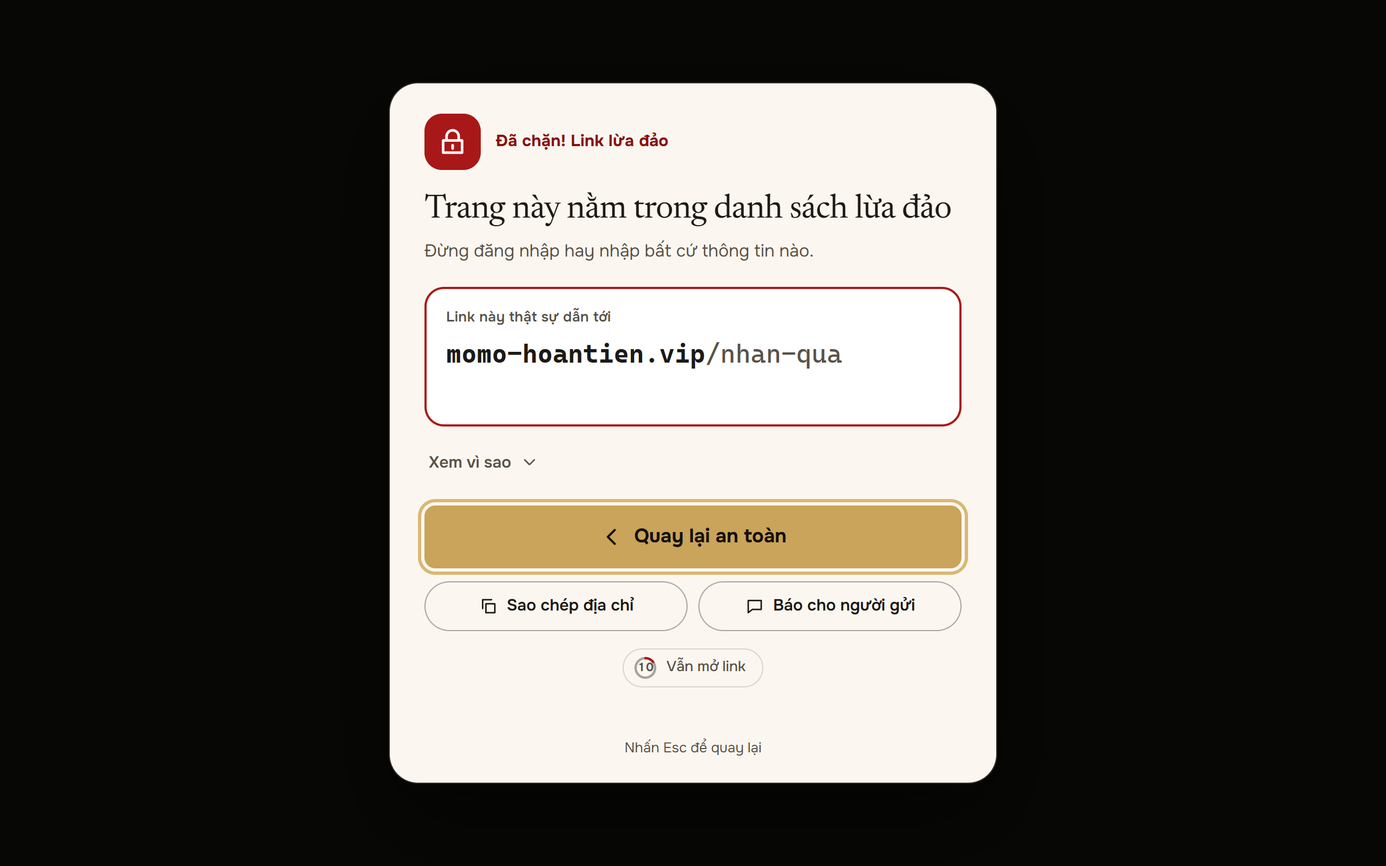
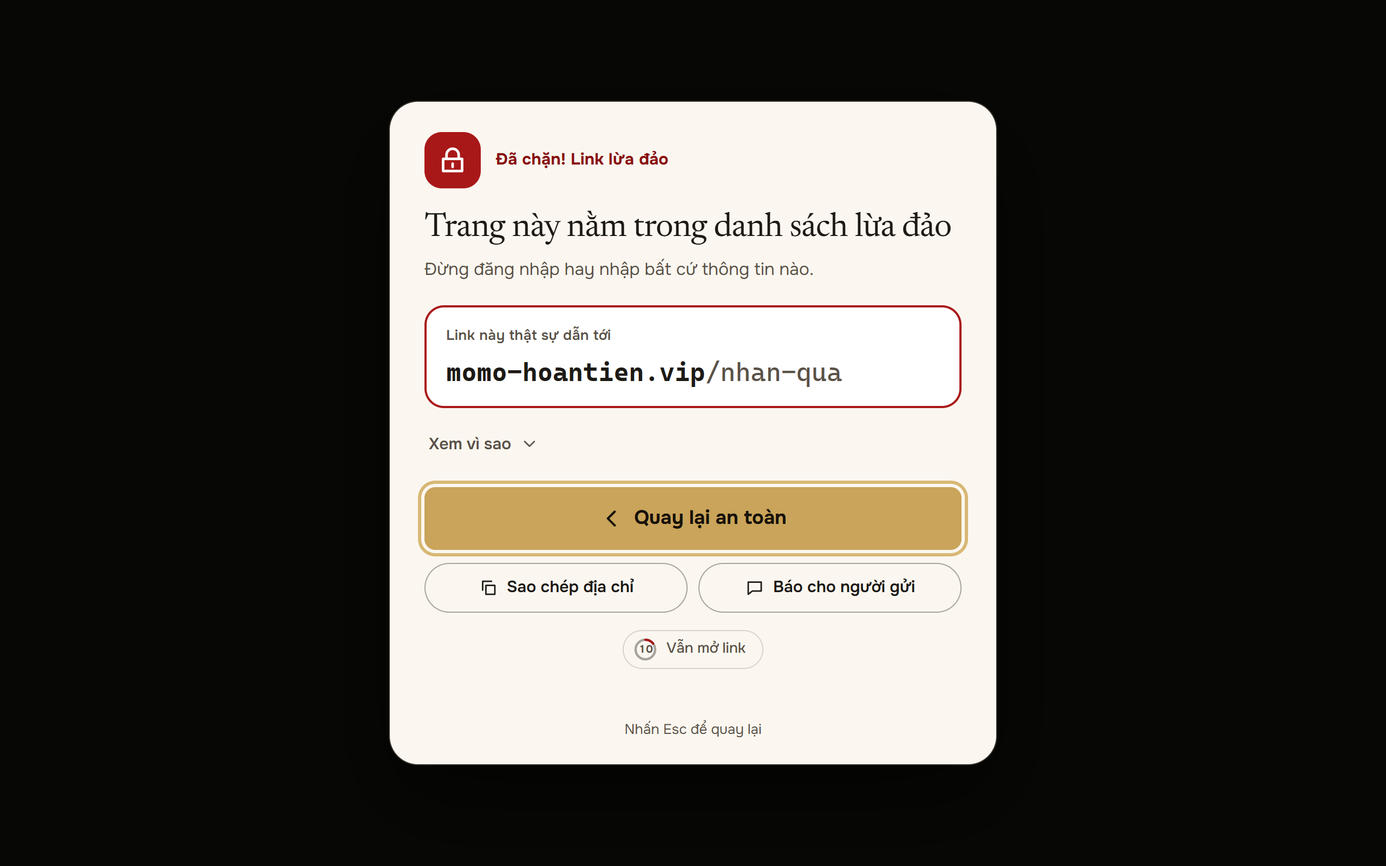
Tài liệu thiết kế giao diện, ảnh trước/sau, test tương phản WCAG, chỉnh vòng đếm

Changed region(s): [[0.2812, 0.4688, 0.7188, 0.7812], [0.2812, 0.0938, 0.7188, 0.4375], [0.2812, 0.8125, 0.7188, 0.9062]]

diff --git a/extension/src/ui/shield-css.js b/extension/src/ui/shield-css.js
@@ -1,2 +1,2 @@
 // Sinh bởi tools/sync_extension_data.py từ chotto/web/shield.css. Đừng sửa tay.
-globalThis.CHOTTO_SHIELD_CSS = "/* CHOTTO – màn hình cảnh báo \"Khoan đã!\" (hiển thị lũy tiến). MỘT nguồn cho cả Desktop (chotto/web/friction.html) và\n   tiện ích trình duyệt (tools/sync_extension_data.py nhúng file này vào extension/src/ui/shield-css.js).\n   Cấu trúc DOM do shield.js dựng. Sáng/tối theo hệ thống; đặt data-theme=\"dark\" | \"light\" trên .sh để ép một chế độ. */\n\n.sh {\n  /* tối (mặc định) */\n  --bg: #0c0a08; --surface: #161310; --surface2: #1f1b16; --ink: #f4efe7; --muted: #b3aa9d; --line: rgba(244, 239, 231, .14);\n  --line-strong: rgba(244, 239, 231, .3);\n  --accent: #c9a45a; --accent-hi: #d8b874; --accent-ink: #17110a; --ok: #7fc8a0;\n  --warn: #e0a84a; --warn-ink: #f2c986; --warn-chip: rgba(224, 168, 74, .16); --warn-solid: #e0a84a; --warn-on: #1c1204;\n  --high: #e5484d; --high-ink: #ffa598; --high-chip: rgba(229, 72, 77, .18); --high-solid: #e5484d; --high-on: #1d0605;\n  --blocked: #d93636; --blocked-ink: #ffb4a8; --blocked-chip: rgba(217, 54, 54, .24); --blocked-solid: #d93636; --blocked-on: #ffffff;\n  --serif: \"Newsreader\", \"Iowan Old Style\", \"Palatino Linotype\", Georgia, \"Times New Roman\", serif;\n  --sans: \"Onest\", \"Segoe UI\", system-ui, -apple-system, Roboto, \"Helvetica Neue\", Arial, sans-serif;\n  --mono: ui-monospace, \"Cascadia Mono\", \"SF Mono\", Consolas, \"Liberation Mono\", Menlo, monospace;\n  --ease: cubic-bezier(.2, .7, .2, 1);\n  color-scheme: dark;\n}\n@media (prefers-color-scheme: light) {\n  .sh:not([data-theme=\"dark\"]) {\n    --bg: #fbf7f0; --surface: #ffffff; --surface2: #f2ece1; --ink: #1d1a16; --muted: #5a5248; --line: rgba(29, 26, 22, .16);\n    --line-strong: rgba(29, 26, 22, .38); --accent-hi: #d8b874; --ok: #1f7a4d;\n    --warn: #b36b00; --warn-ink: #7a4800; --warn-chip: #ffefd0; --warn-solid: #e0a84a; --warn-on: #1c1204;\n    --high: #c62828; --high-ink: #9c1414; --high-chip: #fde8e6; --high-solid: #c62828; --high-on: #ffffff;\n    --blocked: #a91818; --blocked-ink: #8a0f0f; --blocked-chip: #fbd9d5; --blocked-solid: #a91818; --blocked-on: #ffffff;\n    color-scheme: light;\n  }\n}\n.sh[data-theme=\"light\"] {\n  --bg: #fbf7f0; --surface: #ffffff; --surface2: #f2ece1; --ink: #1d1a16; --muted: #5a5248; --line: rgba(29, 26, 22, .16);\n  --line-strong: rgba(29, 26, 22, .38); --accent-hi: #d8b874; --ok: #1f7a4d;\n  --warn: #b36b00; --warn-ink: #7a4800; --warn-chip: #ffefd0; --warn-solid: #e0a84a; --warn-on: #1c1204;\n  --high: #c62828; --high-ink: #9c1414; --high-chip: #fde8e6; --high-solid: #c62828; --high-on: #ffffff;\n  --blocked: #a91818; --blocked-ink: #8a0f0f; --blocked-chip: #fbd9d5; --blocked-solid: #a91818; --blocked-on: #ffffff;\n  color-scheme: light;\n}\n.sh[data-level=\"WARN\"] { --tone: var(--warn); --tone-ink: var(--warn-ink); --tone-chip: var(--warn-chip); --tile: var(--warn-chip); --tile-ink: var(--warn-ink); }\n.sh[data-level=\"HIGH\"] { --tone: var(--high); --tone-ink: var(--high-ink); --tone-chip: var(--high-chip); --tile: var(--high-chip); --tile-ink: var(--high-ink); }\n.sh[data-level=\"BLOCKED\"] { --tone: var(--blocked); --tone-ink: var(--blocked-ink); --tone-chip: var(--blocked-chip); --tile: var(--blocked-solid); --tile-ink: var(--blocked-on); }\n\n.sh, .sh * { box-sizing: border-box; }\n.sh { background: var(--bg); color: var(--ink); font: 16px/1.55 var(--sans); -webkit-font-smoothing: antialiased; padding: 28px 32px 22px; }\n.sh :where(button) { font: inherit; color: inherit; border: 0; background: none; cursor: pointer; }\n.sh :focus-visible { outline: 3px solid var(--accent-hi); outline-offset: 3px; border-radius: 10px; }\n.sh :where(svg) { display: block; flex: none; fill: none; stroke: currentColor; stroke-width: 1.8; stroke-linecap: round; stroke-linejoin: round; }\n\n/* ---- (a) kết luận ---- */\n.sh-head { display: flex; align-items: center; gap: 14px; }\n.sh-tile { width: 52px; height: 52px; border-radius: 16px; display: grid; place-items: center; background: var(--tile); color: var(--tile-ink); transition: background .5s var(--ease), color .5s var(--ease); }\n.sh-tile svg { width: 30px; height: 30px; stroke-width: 1.9; }\n.sh-chip { font-size: 15px; font-weight: 700; letter-spacing: .01em; color: var(--tone-ink); transition: color .5s var(--ease); }\n.sh-headline { margin: 18px 0 0; font: 400 31px/1.2 var(--serif); letter-spacing: -.015em; text-wrap: balance; }\n.sh-sub { margin: 8px 0 0; font-size: 16px; color: var(--muted); }\n.sh-headline[data-reserve] { min-height: 2.4em; }\n.sh-flash { animation: sh-flash .55s var(--ease); }\n\n/* ---- (b) tên miền thật ---- */\n.sh-domain { margin-top: 20px; padding: 18px 20px 16px; border-radius: 18px; background: var(--surface); box-shadow: inset 0 0 0 1px var(--line); transition: box-shadow .5s var(--ease); }\n.sh[data-level=\"BLOCKED\"] .sh-domain { box-shadow: inset 0 0 0 2px var(--blocked); }\n.sh[data-level=\"HIGH\"] .sh-domain { box-shadow: inset 0 0 0 1.5px color-mix(in srgb, var(--high) 55%, transparent); }\n.sh-cap { font-size: 13px; font-weight: 600; letter-spacing: .02em; color: var(--muted); }\n.sh-url { margin-top: 8px; font: 500 24px/1.35 var(--mono); overflow-wrap: anywhere; word-break: break-word; user-select: text; }\n.sh-url .u-user, .sh-url .u-prefix, .sh-url .u-rest { color: var(--muted); font-weight: 400; }\n.sh-url .u-user, .sh-url .u-prefix[data-decoy] { text-decoration: line-through; text-decoration-thickness: 2px; text-decoration-color: var(--high); }\n.sh-url .u-reg { color: var(--ink); font-weight: 800; }\n.sh-url .odd { font-style: normal; color: var(--tone-ink); text-decoration: underline wavy var(--tone); text-decoration-thickness: 2px; text-underline-offset: 6px; }\n.sh-url mark { background: var(--tone-chip); color: var(--tone-ink); border-radius: 6px; padding: 0 3px; margin: 0 -1px; box-shadow: 0 2px 0 var(--tone); }\n.sh-puny { margin-top: 4px; font: 400 13px/1.4 var(--mono); color: var(--muted); overflow-wrap: anywhere; user-select: text; }\n.sh-status:not(:empty), .sh-status[data-reserve] { margin-top: 12px; min-height: 22px; }\n.sh-status { display: flex; align-items: flex-start; gap: 10px; font-size: 14px; color: var(--muted); }\n.sh-official { color: var(--ink); display: inline-flex; align-items: center; gap: 10px; }\n.sh-official svg { width: 18px; height: 18px; color: var(--ok); stroke-width: 2.4; }\n.sh-official b { font-weight: 700; font-family: var(--mono); font-size: 13.5px; }\n.sh-skel { margin: 4px 2px 0 1px; width: 14px; height: 14px; border-radius: 50%; background: var(--muted); animation: sh-pulse 1.1s ease-in-out infinite; }\n.sh-status[data-busy] span { background: linear-gradient(90deg, var(--muted) 0 35%, var(--ink) 50%, var(--muted) 65% 100%) 0 0 / 250% 100%;\n  -webkit-background-clip: text; background-clip: text; color: transparent; animation: sh-shimmer 1.6s linear infinite; }\n\n/* ---- Xem vì sao (thu gọn) ---- */\n.sh-whybtn { margin-top: 14px; display: inline-flex; align-items: center; gap: 8px; padding: 8px 4px; font-size: 15px; font-weight: 600; color: var(--muted); border-radius: 10px; }\n.sh-whybtn:hover { color: var(--ink); }\n.sh-whybtn svg { width: 18px; height: 18px; transition: transform .3s var(--ease); }\n.sh-whybtn[aria-expanded=\"true\"] svg { transform: rotate(180deg); }\n.sh-whybody { display: grid; grid-template-rows: 0fr; visibility: hidden; transition: grid-template-rows .35s var(--ease), visibility 0s .35s; }\n.sh-whybody[data-open] { grid-template-rows: 1fr; visibility: visible; transition: grid-template-rows .35s var(--ease), visibility 0s; }\n.sh-whybody > ul { min-height: 0; overflow: hidden; margin: 0; padding: 0; list-style: none; display: grid; gap: 12px; }\n.sh-whybody li { display: grid; grid-template-columns: 22px 1fr; gap: 12px; font-size: 15px; line-height: 1.45; }\n.sh-whybody li:first-child { margin-top: 6px; }\n.sh-whybody li svg { width: 20px; height: 20px; margin-top: 1px; color: var(--tone-ink); }\n\n/* ---- (c) hành động ---- */\n.sh-actions { margin-top: 20px; display: grid; gap: 12px; }\n.sh-back { width: 100%; height: 58px; border-radius: 999px; font-size: 18px; font-weight: 700; background: var(--accent); color: var(--accent-ink);\n  display: inline-flex; align-items: center; justify-content: center; gap: 10px; transition: background .2s, transform .15s var(--ease); }\n.sh-back svg { width: 22px; height: 22px; stroke-width: 2.2; }\n.sh-back:hover { background: var(--accent-hi); transform: translateY(-1px); }\n.sh-back:active { transform: translateY(1px) scale(.99); }\n.sh-more { display: grid; grid-template-columns: 1fr 1fr; gap: 10px; }\n.sh-ghost { height: 46px; border-radius: 999px; font-size: 15px; font-weight: 600; display: inline-flex; align-items: center; justify-content: center; gap: 8px;\n  box-shadow: inset 0 0 0 1px var(--line-strong); transition: box-shadow .2s, background .2s; }\n.sh-ghost svg { width: 18px; height: 18px; }\n.sh-ghost:hover { background: var(--surface2); box-shadow: inset 0 0 0 1px var(--ink); }\n.sh-proceed { justify-self: center; margin-top: 4px; height: 36px; padding: 0 16px 0 10px; border-radius: 999px; font-size: 13.5px; font-weight: 500; color: var(--muted);\n  display: inline-flex; align-items: center; gap: 8px; box-shadow: inset 0 0 0 1px var(--line); transition: color .2s, box-shadow .2s; }\n.sh-proceed[aria-disabled=\"true\"] { cursor: not-allowed; }\n.sh-proceed[aria-disabled=\"false\"] { color: var(--ink); }\n.sh-proceed[aria-disabled=\"false\"]:hover { box-shadow: inset 0 0 0 1px var(--ink); }\n.sh-ring { position: relative; width: 22px; height: 22px; display: grid; place-items: center; font-size: 11px; font-weight: 700; font-variant-numeric: tabular-nums; }\n.sh-ring svg { position: absolute; inset: 0; width: 22px; height: 22px; transform: rotate(-90deg); stroke-width: 2.2; }\n.sh-ring .bg { stroke: var(--line-strong); }\n.sh-ring .fg { stroke: var(--tone); }\n.sh-proceed[aria-disabled=\"false\"] .sh-ring { display: none; }\n.sh-proceed[aria-disabled=\"false\"] { padding-left: 16px; }\n.sh-note { min-height: 20px; margin: 2px 0 0; text-align: center; font-size: 13.5px; color: var(--muted); }\n.sh-hint { margin: 0; text-align: center; font-size: 13px; color: var(--muted); }\n\n@keyframes sh-flash { from { opacity: .15; transform: translateY(4px); } }\n@keyframes sh-pulse { 50% { opacity: .3; } }\n@keyframes sh-shimmer { to { background-position: -150% 0; } }\n@media (prefers-reduced-motion: reduce) { .sh *, .sh *::before, .sh *::after { animation: none !important; transition: none !important; } }\n@media (max-width: 520px) {\n  .sh { padding: 22px 18px 18px; }\n  .sh-headline { font-size: 26px; }\n  .sh-url { font-size: 20px; }\n  .sh-more { grid-template-columns: 1fr; }\n}\n@media (max-height: 640px) {\n  .sh { padding-top: 18px; }\n  .sh-headline { margin-top: 12px; font-size: 26px; }\n  .sh-domain { margin-top: 14px; }\n}\n";
+globalThis.CHOTTO_SHIELD_CSS = "/* CHOTTO – màn hình cảnh báo \"Khoan đã!\" (hiển thị lũy tiến). MỘT nguồn cho cả Desktop (chotto/web/friction.html) và\n   tiện ích trình duyệt (tools/sync_extension_data.py nhúng file này vào extension/src/ui/shield-css.js).\n   Cấu trúc DOM do shield.js dựng. Sáng/tối theo hệ thống; đặt data-theme=\"dark\" | \"light\" trên .sh để ép một chế độ. */\n\n.sh {\n  /* tối (mặc định) */\n  --bg: #0c0a08; --surface: #161310; --surface2: #1f1b16; --ink: #f4efe7; --muted: #b3aa9d; --line: rgba(244, 239, 231, .14);\n  --line-strong: rgba(244, 239, 231, .3);\n  --accent: #c9a45a; --accent-hi: #d8b874; --accent-ink: #17110a; --ok: #7fc8a0;\n  --warn: #e0a84a; --warn-ink: #f2c986; --warn-chip: rgba(224, 168, 74, .16); --warn-solid: #e0a84a; --warn-on: #1c1204;\n  --high: #e5484d; --high-ink: #ffa598; --high-chip: rgba(229, 72, 77, .18); --high-solid: #e5484d; --high-on: #1d0605;\n  --blocked: #d93636; --blocked-ink: #ffb4a8; --blocked-chip: rgba(217, 54, 54, .24); --blocked-solid: #d93636; --blocked-on: #ffffff;\n  --serif: \"Newsreader\", \"Iowan Old Style\", \"Palatino Linotype\", Georgia, \"Times New Roman\", serif;\n  --sans: \"Onest\", \"Segoe UI\", system-ui, -apple-system, Roboto, \"Helvetica Neue\", Arial, sans-serif;\n  --mono: ui-monospace, \"Cascadia Mono\", \"SF Mono\", Consolas, \"Liberation Mono\", Menlo, monospace;\n  --ease: cubic-bezier(.2, .7, .2, 1);\n  color-scheme: dark;\n}\n@media (prefers-color-scheme: light) {\n  .sh:not([data-theme=\"dark\"]) {\n    --bg: #fbf7f0; --surface: #ffffff; --surface2: #f2ece1; --ink: #1d1a16; --muted: #5a5248; --line: rgba(29, 26, 22, .16);\n    --line-strong: rgba(29, 26, 22, .38); --accent-hi: #d8b874; --ok: #1f7a4d;\n    --warn: #b36b00; --warn-ink: #7a4800; --warn-chip: #ffefd0; --warn-solid: #e0a84a; --warn-on: #1c1204;\n    --high: #c62828; --high-ink: #9c1414; --high-chip: #fde8e6; --high-solid: #c62828; --high-on: #ffffff;\n    --blocked: #a91818; --blocked-ink: #8a0f0f; --blocked-chip: #fbd9d5; --blocked-solid: #a91818; --blocked-on: #ffffff;\n    color-scheme: light;\n  }\n}\n.sh[data-theme=\"light\"] {\n  --bg: #fbf7f0; --surface: #ffffff; --surface2: #f2ece1; --ink: #1d1a16; --muted: #5a5248; --line: rgba(29, 26, 22, .16);\n  --line-strong: rgba(29, 26, 22, .38); --accent-hi: #d8b874; --ok: #1f7a4d;\n  --warn: #b36b00; --warn-ink: #7a4800; --warn-chip: #ffefd0; --warn-solid: #e0a84a; --warn-on: #1c1204;\n  --high: #c62828; --high-ink: #9c1414; --high-chip: #fde8e6; --high-solid: #c62828; --high-on: #ffffff;\n  --blocked: #a91818; --blocked-ink: #8a0f0f; --blocked-chip: #fbd9d5; --blocked-solid: #a91818; --blocked-on: #ffffff;\n  color-scheme: light;\n}\n.sh[data-level=\"WARN\"] { --tone: var(--warn); --tone-ink: var(--warn-ink); --tone-chip: var(--warn-chip); --tile: var(--warn-chip); --tile-ink: var(--warn-ink); }\n.sh[data-level=\"HIGH\"] { --tone: var(--high); --tone-ink: var(--high-ink); --tone-chip: var(--high-chip); --tile: var(--high-chip); --tile-ink: var(--high-ink); }\n.sh[data-level=\"BLOCKED\"] { --tone: var(--blocked); --tone-ink: var(--blocked-ink); --tone-chip: var(--blocked-chip); --tile: var(--blocked-solid); --tile-ink: var(--blocked-on); }\n\n.sh, .sh * { box-sizing: border-box; }\n.sh { background: var(--bg); color: var(--ink); font: 16px/1.55 var(--sans); -webkit-font-smoothing: antialiased; padding: 28px 32px 22px; }\n.sh :where(button) { font: inherit; color: inherit; border: 0; background: none; cursor: pointer; }\n.sh :focus-visible { outline: 3px solid var(--accent-hi); outline-offset: 3px; border-radius: 10px; }\n.sh :where(svg) { display: block; flex: none; fill: none; stroke: currentColor; stroke-width: 1.8; stroke-linecap: round; stroke-linejoin: round; }\n\n/* ---- (a) kết luận ---- */\n.sh-head { display: flex; align-items: center; gap: 14px; }\n.sh-tile { width: 52px; height: 52px; border-radius: 16px; display: grid; place-items: center; background: var(--tile); color: var(--tile-ink); transition: background .5s var(--ease), color .5s var(--ease); }\n.sh-tile svg { width: 30px; height: 30px; stroke-width: 1.9; }\n.sh-chip { font-size: 15px; font-weight: 700; letter-spacing: .01em; color: var(--tone-ink); transition: color .5s var(--ease); }\n.sh-headline { margin: 18px 0 0; font: 400 31px/1.2 var(--serif); letter-spacing: -.015em; text-wrap: balance; }\n.sh-sub { margin: 8px 0 0; font-size: 16px; color: var(--muted); }\n.sh-headline[data-reserve] { min-height: 2.4em; }\n.sh-flash { animation: sh-flash .55s var(--ease); }\n\n/* ---- (b) tên miền thật ---- */\n.sh-domain { margin-top: 20px; padding: 18px 20px 16px; border-radius: 18px; background: var(--surface); box-shadow: inset 0 0 0 1px var(--line); transition: box-shadow .5s var(--ease); }\n.sh[data-level=\"BLOCKED\"] .sh-domain { box-shadow: inset 0 0 0 2px var(--blocked); }\n.sh[data-level=\"HIGH\"] .sh-domain { box-shadow: inset 0 0 0 1.5px color-mix(in srgb, var(--high) 55%, transparent); }\n.sh-cap { font-size: 13px; font-weight: 600; letter-spacing: .02em; color: var(--muted); }\n.sh-url { margin-top: 8px; font: 500 24px/1.35 var(--mono); overflow-wrap: anywhere; word-break: break-word; user-select: text; }\n.sh-url .u-user, .sh-url .u-prefix, .sh-url .u-rest { color: var(--muted); font-weight: 400; }\n.sh-url .u-user, .sh-url .u-prefix[data-decoy] { text-decoration: line-through; text-decoration-thickness: 2px; text-decoration-color: var(--high); }\n.sh-url .u-reg { color: var(--ink); font-weight: 800; }\n.sh-url .odd { font-style: normal; color: var(--tone-ink); text-decoration: underline wavy var(--tone); text-decoration-thickness: 2px; text-underline-offset: 6px; }\n.sh-url mark { background: var(--tone-chip); color: var(--tone-ink); border-radius: 6px; padding: 0 3px; margin: 0 -1px; box-shadow: 0 2px 0 var(--tone); }\n.sh-puny { margin-top: 4px; font: 400 13px/1.4 var(--mono); color: var(--muted); overflow-wrap: anywhere; user-select: text; }\n.sh-status:not(:empty), .sh-status[data-reserve] { margin-top: 12px; min-height: 22px; }\n.sh-status { display: flex; align-items: flex-start; gap: 10px; font-size: 14px; color: var(--muted); }\n.sh-official { color: var(--ink); display: inline-flex; align-items: center; gap: 10px; }\n.sh-official svg { width: 18px; height: 18px; color: var(--ok); stroke-width: 2.4; }\n.sh-official b { font-weight: 700; font-family: var(--mono); font-size: 13.5px; }\n.sh-skel { margin: 4px 2px 0 1px; width: 14px; height: 14px; border-radius: 50%; background: var(--muted); animation: sh-pulse 1.1s ease-in-out infinite; }\n.sh-status[data-busy] span { background: linear-gradient(90deg, var(--muted) 0 35%, var(--ink) 50%, var(--muted) 65% 100%) 0 0 / 250% 100%;\n  -webkit-background-clip: text; background-clip: text; color: transparent; animation: sh-shimmer 1.6s linear infinite; }\n\n/* ---- Xem vì sao (thu gọn) ---- */\n.sh-whybtn { margin-top: 14px; display: inline-flex; align-items: center; gap: 8px; padding: 8px 4px; font-size: 15px; font-weight: 600; color: var(--muted); border-radius: 10px; }\n.sh-whybtn:hover { color: var(--ink); }\n.sh-whybtn svg { width: 18px; height: 18px; transition: transform .3s var(--ease); }\n.sh-whybtn[aria-expanded=\"true\"] svg { transform: rotate(180deg); }\n.sh-whybody { display: grid; grid-template-rows: 0fr; visibility: hidden; transition: grid-template-rows .35s var(--ease), visibility 0s .35s; }\n.sh-whybody[data-open] { grid-template-rows: 1fr; visibility: visible; transition: grid-template-rows .35s var(--ease), visibility 0s; }\n.sh-whybody > ul { min-height: 0; overflow: hidden; margin: 0; padding: 0; list-style: none; display: grid; gap: 12px; }\n.sh-whybody li { display: grid; grid-template-columns: 22px 1fr; gap: 12px; font-size: 15px; line-height: 1.45; }\n.sh-whybody li:first-child { margin-top: 6px; }\n.sh-whybody li svg { width: 20px; height: 20px; margin-top: 1px; color: var(--tone-ink); }\n\n/* ---- (c) hành động ---- */\n.sh-actions { margin-top: 20px; display: grid; gap: 12px; }\n.sh-back { width: 100%; height: 58px; border-radius: 999px; font-size: 18px; font-weight: 700; background: var(--accent); color: var(--accent-ink);\n  display: inline-flex; align-items: center; justify-content: center; gap: 10px; transition: background .2s, transform .15s var(--ease); }\n.sh-back svg { width: 22px; height: 22px; stroke-width: 2.2; }\n.sh-back:hover { background: var(--accent-hi); transform: translateY(-1px); }\n.sh-back:active { transform: translateY(1px) scale(.99); }\n.sh-more { display: grid; grid-template-columns: 1fr 1fr; gap: 10px; }\n.sh-ghost { height: 46px; border-radius: 999px; font-size: 15px; font-weight: 600; display: inline-flex; align-items: center; justify-content: center; gap: 8px;\n  box-shadow: inset 0 0 0 1px var(--line-strong); transition: box-shadow .2s, background .2s; }\n.sh-ghost svg { width: 18px; height: 18px; }\n.sh-ghost:hover { background: var(--surface2); box-shadow: inset 0 0 0 1px var(--ink); }\n.sh-proceed { justify-self: center; margin-top: 4px; height: 36px; padding: 0 16px 0 10px; border-radius: 999px; font-size: 13.5px; font-weight: 500; color: var(--muted);\n  display: inline-flex; align-items: center; gap: 8px; box-shadow: inset 0 0 0 1px var(--line); transition: color .2s, box-shadow .2s; }\n.sh-proceed[aria-disabled=\"true\"] { cursor: not-allowed; }\n.sh-proceed[aria-disabled=\"false\"] { color: var(--ink); }\n.sh-proceed[aria-disabled=\"false\"]:hover { box-shadow: inset 0 0 0 1px var(--ink); }\n.sh-ring { position: relative; width: 22px; height: 22px; display: grid; place-items: center; font-size: 10px; letter-spacing: -.02em; font-weight: 700; font-variant-numeric: tabular-nums; }\n.sh-ring svg { position: absolute; inset: 0; width: 22px; height: 22px; transform: rotate(-90deg); stroke-width: 2.2; }\n.sh-ring .bg { stroke: var(--line-strong); }\n.sh-ring .fg { stroke: var(--tone); }\n.sh-proceed[aria-disabled=\"false\"] .sh-ring { display: none; }\n.sh-proceed[aria-disabled=\"false\"] { padding-left: 16px; }\n.sh-note { min-height: 20px; margin: 2px 0 0; text-align: center; font-size: 13.5px; color: var(--muted); }\n.sh-hint { margin: 0; text-align: center; font-size: 13px; color: var(--muted); }\n\n@keyframes sh-flash { from { opacity: .15; transform: translateY(4px); } }\n@keyframes sh-pulse { 50% { opacity: .3; } }\n@keyframes sh-shimmer { to { background-position: -150% 0; } }\n@media (prefers-reduced-motion: reduce) { .sh *, .sh *::before, .sh *::after { animation: none !important; transition: none !important; } }\n@media (max-width: 520px) {\n  .sh { padding: 22px 18px 18px; }\n  .sh-headline { font-size: 26px; }\n  .sh-url { font-size: 20px; }\n  .sh-more { grid-template-columns: 1fr; }\n}\n@media (max-height: 640px) {\n  .sh { padding-top: 18px; }\n  .sh-headline { margin-top: 12px; font-size: 26px; }\n  .sh-domain { margin-top: 14px; }\n}\n";

diff --git a/chotto/web/shield.css b/chotto/web/shield.css
@@ -104,7 +104,7 @@
 .sh-proceed[aria-disabled="true"] { cursor: not-allowed; }
 .sh-proceed[aria-disabled="false"] { color: var(--ink); }
 .sh-proceed[aria-disabled="false"]:hover { box-shadow: inset 0 0 0 1px var(--ink); }
-.sh-ring { position: relative; width: 22px; height: 22px; display: grid; place-items: center; font-size: 11px; font-weight: 700; font-variant-numeric: tabular-nums; }
+.sh-ring { position: relative; width: 22px; height: 22px; display: grid; place-items: center; font-size: 10px; letter-spacing: -.02em; font-weight: 700; font-variant-numeric: tabular-nums; }
 .sh-ring svg { position: absolute; inset: 0; width: 22px; height: 22px; transform: rotate(-90deg); stroke-width: 2.2; }
 .sh-ring .bg { stroke: var(--line-strong); }
 .sh-ring .fg { stroke: var(--tone); }

diff --git a/tests/test_shield.py b/tests/test_shield.py
@@ -89,6 +89,40 @@ class PlainTablesTest(unittest.TestCase):
                              "Chạy: python tools/sync_extension_data.py")
 
 
+def _tokens(selector: str) -> dict[str, str]:
+    """Các biến màu hex trong khối CSS ``selector`` của ``chotto/web/shield.css``."""
+    css = (ROOT / "chotto" / "web" / "shield.css").read_text("utf-8")
+    start = css.index(selector + " {")
+    block = css[start:css.index("}", start)]
+    return {name[2:]: value for name, value in re.findall(r"(--[\w-]+):\s*(#[0-9a-fA-F]{6})", block)}
+
+
+def _contrast(a: str, b: str) -> float:
+    def luminance(color: str) -> float:
+        channels = [int(color[i:i + 2], 16) / 255 for i in (1, 3, 5)]
+        r, g, bl = [c / 12.92 if c <= 0.03928 else ((c + 0.055) / 1.055) ** 2.4 for c in channels]
+        return 0.2126 * r + 0.7152 * g + 0.0722 * bl
+
+    hi, lo = sorted((luminance(a), luminance(b)), reverse=True)
+    return (hi + 0.05) / (lo + 0.05)
+
+
+class ContrastTest(unittest.TestCase):
+    """Chữ và biểu tượng của màn hình cảnh báo đạt tương phản WCAG AA (>= 4,5:1) ở cả chế độ tối và sáng."""
+
+    def test_wcag_aa_in_both_themes(self) -> None:
+        for name, selector in (("tối", ".sh"), ("sáng", '.sh[data-theme="light"]')):
+            t = {**_tokens(".sh"), **_tokens(selector)}      # chế độ sáng kế thừa các biến không đổi (nút chính...)
+            pairs = [("ink", "bg"), ("muted", "bg"), ("muted", "surface"), ("accent-ink", "accent"),
+                     ("warn-ink", "bg"), ("high-ink", "bg"), ("blocked-ink", "bg"), ("blocked-on", "blocked-solid"),
+                     ("ok", "surface"), ("warn-ink", "warn-chip"), ("high-ink", "high-chip")]
+            for fg, bg in pairs:
+                if fg not in t or bg not in t:
+                    continue
+                self.assertGreaterEqual(_contrast(t[fg], t[bg]), 4.5, f"{name}: {fg} trên {bg}")
+            self.assertGreaterEqual(len([1 for fg, bg in pairs if fg in t and bg in t]), 8, name)
+
+
 class ShieldViewTest(unittest.TestCase):
     def test_structure(self) -> None:
         v = view("https://vcb-digibanks.top/xac-nhan")

diff --git a/docs/THIET-KE-GIAO-DIEN.md b/docs/THIET-KE-GIAO-DIEN.md
@@ -1,0 +1,171 @@
+# Thiết kế lại màn hình cảnh báo "Khoan đã!"
+
+Nhận xét của thầy: *giao diện cảnh báo chưa đạt, đang hiển thị hết mọi lý do kỹ thuật, quá nhiều chữ.*
+Tài liệu này ghi vấn đề, nguyên tắc, hai phương án bố cục đã cân nhắc, ảnh trước/sau và các quyết định thiết kế.
+Nhánh làm việc: `ui-redesign` (tách từ `zero-day-study`, không đụng engine, luật hay điểm số).
+
+## 1. Vấn đề của bản cũ
+
+![Bản cũ trên tiện ích (giả danh Vietcombank)](ui/before/ext-high.png)
+
+| # | Vấn đề | Biểu hiện trong bản cũ |
+|---|--------|------------------------|
+| 1 | Quá nhiều thông tin kỹ thuật | Liệt kê tối đa 4 lý do ("Tên miền trông như chuỗi ký tự ngẫu nhiên"...), "Phát hiện ở: Tầng 2 – Phân tích tên miền", điểm rủi ro "83/100", thang "An toàn / Đáng ngờ / Nguy hiểm" |
+| 2 | Không rõ nên làm gì | Một đoạn lời khuyên 6–7 dòng; nút "Tôi hiểu rủi ro, vẫn mở" to và nằm sát nút an toàn, nổi ngang nút "Đóng, không mở" |
+| 3 | Tên miền thật khó nhận ra | Địa chỉ nằm trong khối thứ hai, cùng cỡ chữ với phần còn lại; ký tự đồng hình (chữ `а` Nga trong `vietcombаnk.com`) trông y hệt chữ Latin |
+
+Một màn hình cảnh báo mà người dùng không đọc hết thì không bảo vệ được ai. Bố mẹ của chúng ta sẽ bấm "vẫn mở" chỉ để cho nó biến mất.
+
+## 2. Nguyên tắc
+
+1. **Hiển thị lũy tiến.** Mặc định chỉ có ba thứ: (a) một câu kết luận, (b) tên miền thật, (c) hành động. Mọi thứ khác nằm trong mục thu gọn "Xem vì sao".
+2. **Một câu lý do duy nhất, đời thường**, tối đa ~12 từ, chọn theo mức ưu tiên (danh sách đen, rồi kịch bản tổ hợp của `advisor.py`, rồi dấu hiệu riêng mạnh nhất). Không dùng thuật ngữ (tầng, điểm, TLD, RDAP, homoglyph...).
+3. **Tên miền thật là nhân vật chính**: chữ lớn, đơn cách (monospace), phần đăng ký đậm, phần còn lại nhạt, phần giống tên ngân hàng được tô sáng, kèm "Trang chính thức của Vietcombank là vietcombank.com.vn".
+4. **Mức độ bằng màu + hình + chữ** (không chỉ màu): đáng ngờ = tam giác hổ phách, nguy hiểm = bát giác đỏ, đã chặn = ổ khóa đỏ đậm đặc; mỗi mức có nhãn chữ riêng.
+5. **Phân cấp nút**: "Quay lại an toàn" to, màu thương hiệu; "Vẫn mở link" nhỏ, viền mảnh, bị khóa kèm vòng đếm ngược tròn.
+6. **Một hành động hữu ích thêm**: "Sao chép địa chỉ" và "Báo cho người gửi" (soạn sẵn câu nhắn). Chỉ chép vào clipboard, không gửi gì ra ngoài.
+7. **Chữ ngắn**: tối đa 3 gạch đầu dòng trong "Xem vì sao", mỗi dòng một ý, một biểu tượng.
+8. **Cập nhật mượt** khi Tầng 3 trả kết quả muộn: mức chỉ tăng, dòng "Đang xác minh tuổi tên miền…" có chỗ cố định nên bố cục không nhảy.
+9. **Truy cập**: tương phản WCAG AA, bàn phím (Esc = quay lại, focus mặc định ở nút an toàn), `aria-live`, tôn trọng `prefers-reduced-motion`, cỡ chữ theo `rem`/`px` co giãn theo DPI.
+10. **Giọng điệu** thân thiện, bình tĩnh, không dọa, không đổ lỗi ("Khoan đã!", "Hãy cẩn thận trước khi mở link này").
+
+## 3. Hai phương án bố cục
+
+**Phương án A: thẻ một cột (đã chọn)**
+
+```
++------------------------------------------+
+| [ ! ]  Khoan đã! Link nguy hiểm          |   biểu tượng + nhãn mức
+|                                          |
+|  Giả danh Vietcombank và hối thúc bạn    |   (a) MỘT câu kết luận
+|  Đừng đăng nhập hay nhập mã OTP.         |
+| +--------------------------------------+ |
+| | Link này thật sự dẫn tới             | |
+| | [vcb]-digibanks.top /xac-nhan        | |   (b) tên miền thật, tô sáng
+| | ✓ Trang chính thức: vietcombank.com.vn| |
+| +--------------------------------------+ |
+|  Xem vì sao  v                           |   thu gọn (tối đa 3 dòng)
+| [        Quay lại an toàn             ]  |   (c) nút chính, to
+| [ Sao chép địa chỉ ][ Báo cho người gửi ]|
+|        (8) Vẫn mở link                   |   nút phụ, nhỏ, có vòng đếm ngược
++------------------------------------------+
+```
+
+**Phương án B: hai cột (kết luận bên trái, hành động bên phải)**
+
+```
++---------------------------+--------------+
+| [!] Link nguy hiểm        | [ Quay lại ] |
+| Giả danh Vietcombank...   | [ Sao chép ] |
+| vcb-digibanks.top/xac-nhan| (8) Vẫn mở   |
+| Xem vì sao v              |              |
++---------------------------+--------------+
+```
+
+**Chọn A**, vì:
+- Một cột chỉ có một đường đọc từ trên xuống: kết luận, địa chỉ, việc cần làm. Người lớn tuổi không phải quét hai vùng.
+- Hai cột cần chiều rộng lớn; trên cửa sổ hẹp, điện thoại hay Zalo Web thu nhỏ nó sụp thành một cột và phải thiết kế lại. Phương án A dùng đúng một bố cục ở mọi kích thước (Desktop 620 px, hộp thoại trên Zalo, cỡ điện thoại 390 px).
+- Nút chính nằm ở đáy, nơi ngón tay/chuột dừng sau khi đọc; nút "vẫn mở" bị đẩy xuống thấp nhất và nhỏ nhất, đúng ý đồ.
+- Một bố cục duy nhất nên Desktop (HTML), tiện ích và đường lùi Tk giống nhau.
+
+## 4. Thông tin nào hiện, thông tin nào ẩn
+
+| Thông tin | WARN (đáng ngờ) | HIGH (nguy hiểm) | BLOCKED (danh sách đen) |
+|-----------|:---------------:|:----------------:|:-----------------------:|
+| Biểu tượng + nhãn mức | hiện (tam giác hổ phách, "Khoan đã! Link đáng ngờ") | hiện (bát giác đỏ, "Khoan đã! Link nguy hiểm") | hiện (ổ khóa đỏ đặc, "Đã chặn! Link lừa đảo") |
+| Một câu kết luận | hiện | hiện | hiện ("Trang này nằm trong danh sách lừa đảo") |
+| Một dòng nhắc việc cần làm | hiện ("Hãy cẩn thận trước khi mở link này.") | hiện ("Đừng đăng nhập hay nhập mã OTP vào trang này.") | hiện ("Đừng đăng nhập hay nhập bất cứ thông tin nào.") |
+| Tên miền thật (đậm) + phần phụ (nhạt) | hiện | hiện, viền đỏ | hiện, viền đỏ đậm |
+| Tô sáng phần giống tên ngân hàng, dạng punycode của tên miền Unicode, ký tự lạ gạch sóng | hiện khi có | hiện khi có | không áp dụng |
+| "Trang chính thức của … là …" | hiện khi biết thương hiệu | hiện khi biết thương hiệu | không có |
+| Dòng "Đang xác minh tuổi tên miền…" | hiện khi Tầng 3 còn chạy | hiện khi Tầng 3 còn chạy | không có (không cần Tầng 3) |
+| Lý do chi tiết (tối đa 3 dòng, có biểu tượng) | **ẩn** trong "Xem vì sao" | **ẩn** trong "Xem vì sao" | **ẩn** trong "Xem vì sao" |
+| Quay lại an toàn / Sao chép địa chỉ / Báo cho người gửi | hiện | hiện | hiện |
+| "Vẫn mở link" + vòng đếm ngược | hiện, nhỏ, khóa 3 s (theo cài đặt) | hiện, nhỏ, khóa lâu hơn | hiện, nhỏ, khóa lâu nhất |
+| Điểm số, tên tầng, câu lời khuyên dài, địa chỉ đầy đủ | **bỏ khỏi màn hình** (địa chỉ đầy đủ chỉ nằm trong clipboard khi bấm "Sao chép") | như WARN | như WARN |
+
+Thời gian khóa vẫn theo `friction_seconds_for` (không đổi cơ chế): WARN thấp nhất, HIGH và BLOCKED cộng thêm.
+
+## 5. Trước / sau
+
+### Tiện ích trình duyệt (Zalo Web), chế độ tối
+
+| Ca | Trước | Sau |
+|----|-------|-----|
+| WARN: tên miền lạ `khuyen-mai-hoan-tien.shop` | ![](ui/before/ext-warn.png) | ![](ui/after/ext-warn.png) |
+| HIGH: giả Vietcombank + hối thúc `vcb-digibanks.top` | ![](ui/before/ext-high.png) | ![](ui/after/ext-high.png) |
+| BLOCKED: nằm trong danh sách đen | ![](ui/before/ext-blocked.png) | ![](ui/after/ext-blocked.png) |
+| IDN / đồng hình: `vietcombаnk.com` (chữ `а` Nga) | ![](ui/before/ext-idn.png) | ![](ui/after/ext-idn.png) |
+
+### Chế độ sáng và cỡ điện thoại (chỉ có bản mới)
+
+| WARN, sáng | BLOCKED, sáng | HIGH, 390 px |
+|-----------|---------------|--------------|
+| ![](ui/after/ext-warn-sang.png) | ![](ui/after/ext-blocked-sang.png) | ![](ui/after/ext-high-dien-thoai.png) |
+
+### Desktop
+
+| Trước (HTML cũ) | Sau (HTML mới, tiếng Việt) | Sau (tiếng Anh) |
+|-----------------|----------------------------|-----------------|
+| ![](ui/before/desktop-high.png) | ![](ui/after/desktop-high.png) | ![](ui/after/desktop-en-high.png) |
+
+| WARN | BLOCKED | IDN |
+|------|---------|-----|
+| ![](ui/after/desktop-warn.png) | ![](ui/after/desktop-blocked.png) | ![](ui/after/desktop-idn.png) |
+
+### Đường lùi Tkinter (khi giao diện HTML không chạy được)
+
+| Trước | Sau (cùng bố cục, thanh tiến trình thay cho vòng đếm) |
+|-------|-------------------------------------------------------|
+| ![](ui/before/tk-high.png) | ![](ui/after/tk-high.png) |
+
+Các ca còn lại của Tk: `ui/after/tk-warn.png`, `tk-blocked.png`, `tk-idn.png`.
+
+### Cập nhật mượt khi Tầng 3 trả kết quả muộn
+
+| Đang xác minh (WARN sơ bộ) | Tầng 3 xong, mức tăng lên HIGH | Mở "Xem vì sao" |
+|----------------------------|-------------------------------|-----------------|
+| ![](ui/after/desktop-dang-xac-minh.png) | ![](ui/after/desktop-da-cap-nhat.png) | ![](ui/after/desktop-xem-vi-sao.png) |
+
+Đã đo vị trí các phần tử trước và sau khi `update()` chạy: nút "Quay lại an toàn", nút "Vẫn mở link" và thẻ tên miền không xê dịch pixel nào (câu kết luận và dòng trạng thái được giữ chỗ khi Tầng 3 còn chạy).
+
+## 6. Quyết định thiết kế
+
+**Một câu kết luận, chọn theo ưu tiên.** `chotto/plain.py` đặt cạnh `advisor.py`: bảng "mã tín hiệu → một câu ngắn". Thứ tự: danh sách đen, rồi sáu kịch bản tổ hợp **cùng nhóm mã và cùng thứ tự với `advisor.COMBOS`** (ví dụ giả danh + hối thúc = "Giả danh Vietcombank và hối thúc bạn"), rồi dấu hiệu riêng mạnh nhất, cuối cùng là câu mặc định theo mức. Các dấu hiệu yếu (đuôi tên miền, nhiều số, nhiều gạch ngang) không bao giờ tự làm câu kết luận mà chỉ xuất hiện ở "Xem vì sao". Một test kiểm tra mọi câu ≤ 12 từ và không chứa từ kỹ thuật.
+
+**Tên miền là nhân vật chính.** Phần đăng ký (`xacthuc-tk.top`) đậm, tiền tố/đường dẫn nhạt. Tên ngân hàng đặt ở tên miền phụ (`vietcombank.com.vn.xacthuc-tk.top`) bị gạch đi vì là ngụy trang. Phần giống thương hiệu được tìm bằng từ khóa trong `rules.json` (khớp nguyên văn, rồi khoảng cách sửa ≤ 2 ký tự cho sai chính tả và ký tự đánh lừa). Tên miền Unicode hiện cả dạng punycode bên dưới, ký tự ngoài ASCII được gạch sóng.
+
+**Mức độ không chỉ bằng màu.** Ba hình khác nhau (tam giác, bát giác, ổ khóa), nhãn chữ khác nhau và viền thẻ tên miền dày dần. Người mù màu phân biệt được ba mức.
+
+**Phân cấp nút và đếm ngược.** "Quay lại an toàn" cao 58 px, rộng hết hàng, màu thương hiệu, nhận focus mặc định. "Vẫn mở link" cao 36 px, chữ nhỏ, viền mảnh, có vòng tròn cạn dần kèm số giây nhỏ trong vòng (cho trình đọc màn hình đọc "mở khóa sau N giây"). Cơ chế khóa có chủ ý không đổi: đếm theo `performance.now`, Python và service worker kiểm lại, tiện ích chỉ nhận cú bấm chuột thật.
+
+**"Báo cho người gửi" soạn sẵn câu nhắn, không gửi gì.** Chỉ chép vào clipboard: "Link này có vẻ lừa đảo, bạn đừng bấm nhé: vcb-digibanks[.]top". Tên miền được viết dạng `[.]` để Zalo không biến nó thành link bấm được. Nút "Sao chép địa chỉ" chép địa chỉ đầy đủ (với tên miền Unicode là dạng punycode an toàn).
+
+**Một nguồn cho cả ba nơi.**
+- `chotto/shield.py` (Python) và `extension/src/view.js` (JS) cùng sinh cấu trúc `{headline, domain{registered, rest, ...}, reasonShort, details[], actions}`. `tools/gen_view_vectors.py` sinh `tests/data/view_vectors.json` (524 URL không an toàn); cả `tests/test_shield.py` lẫn `extension/tests/view.test.mjs` phải tái tạo đúng từng ký tự.
+- Bảng chữ nằm ở `chotto/plain.py`; `tools/sync_extension_data.py` xuất sang `extension/data/plain.json` và `--check` phát hiện lệch.
+- `chotto/web/shield.css` + `shield.js` là giao diện duy nhất. Desktop nạp trực tiếp, tiện ích nhận bản chép (`shield.js`) và CSS nhúng thành chuỗi (`shield-css.js`) từ cùng tool đồng bộ, vì content script không được lộ URL tài nguyên cho trang Zalo.
+- Đường lùi Tk (`chotto/ui_shield.py`) đọc cùng `shield_view`, nên cùng chữ.
+
+**Truy cập.** Tương phản đã kiểm bằng test (`tests/test_shield.py::ContrastTest`, đọc trực tiếp màu trong CSS): chữ thường ≥ 7,1:1 ở cả hai chế độ, biểu tượng ổ khóa trắng trên nền đỏ 4,6:1 (đạt AA). Esc luôn là "quay lại"; focus mặc định ở nút an toàn; vùng trạng thái dùng `aria-live`; `prefers-reduced-motion` tắt mọi chuyển động; cửa sổ cuộn được khi màn hình thấp.
+
+**Sáng/tối.** Tiện ích theo hệ thống (`prefers-color-scheme`). Desktop giữ chế độ tối như yêu cầu (`data-theme="dark"`), bật chế độ sáng chỉ cần bỏ thuộc tính đó.
+
+## 7. Điều cố ý không làm và hạn chế
+
+- **Nút "Vẫn mở link" của tiện ích không nhận phím.** Đây là cơ chế chống bấm phản xạ có từ trước (Enter/Space không mở được; phải bấm chuột thật sau khi hết khóa). Người dùng chỉ dùng bàn phím vẫn thoát an toàn bằng Esc. Bản Desktop cho phép Enter sau khi hết khóa.
+- **Tab "Kiểm tra link" trong cửa sổ ứng dụng Desktop** vẫn dùng `friction_view` cũ (hiển thị điểm và lý do kỹ thuật) vì đó là công cụ chẩn đoán, không phải màn hình cảnh báo. Có thể chuyển sang `shield_view` sau.
+- **Tk** thay vòng đếm tròn bằng thanh tiến trình mảnh và không có biểu tượng cho từng dòng "Xem vì sao".
+- **Bản tiếng Anh chỉ có ở Desktop** (tiện ích vốn chỉ có tiếng Việt). Bảng chữ tiếng Anh đã có test chống lẫn chữ Việt.
+- Các ảnh chụp do trình duyệt Chromium không đầu (headless) tạo ra; cần kiểm bằng mắt trên máy thật, đặc biệt font Newsreader/Onest, độ co giãn ở DPI 125–150% và cửa sổ Desktop thật.
+
+## 8. Cách chạy lại
+
+```
+python tools/sync_extension_data.py          # đồng bộ plain.json, shield.js, shield-css.js sang tiện ích
+python tools/gen_view_vectors.py             # sinh lại vector khớp Python <-> JS
+python -m unittest discover -s tests         # test Python
+cd extension && npm test && npm run typecheck && npm run e2e
+node e2e/ui-shots.mjs ../docs/ui/after ext-  # chụp ảnh tiện ích (CHROMIUM_PATH nếu cần)
+python main.py --force "https://vcb-digibanks.top/xac-nhan"   # xem màn hình thật trên Desktop
+```
